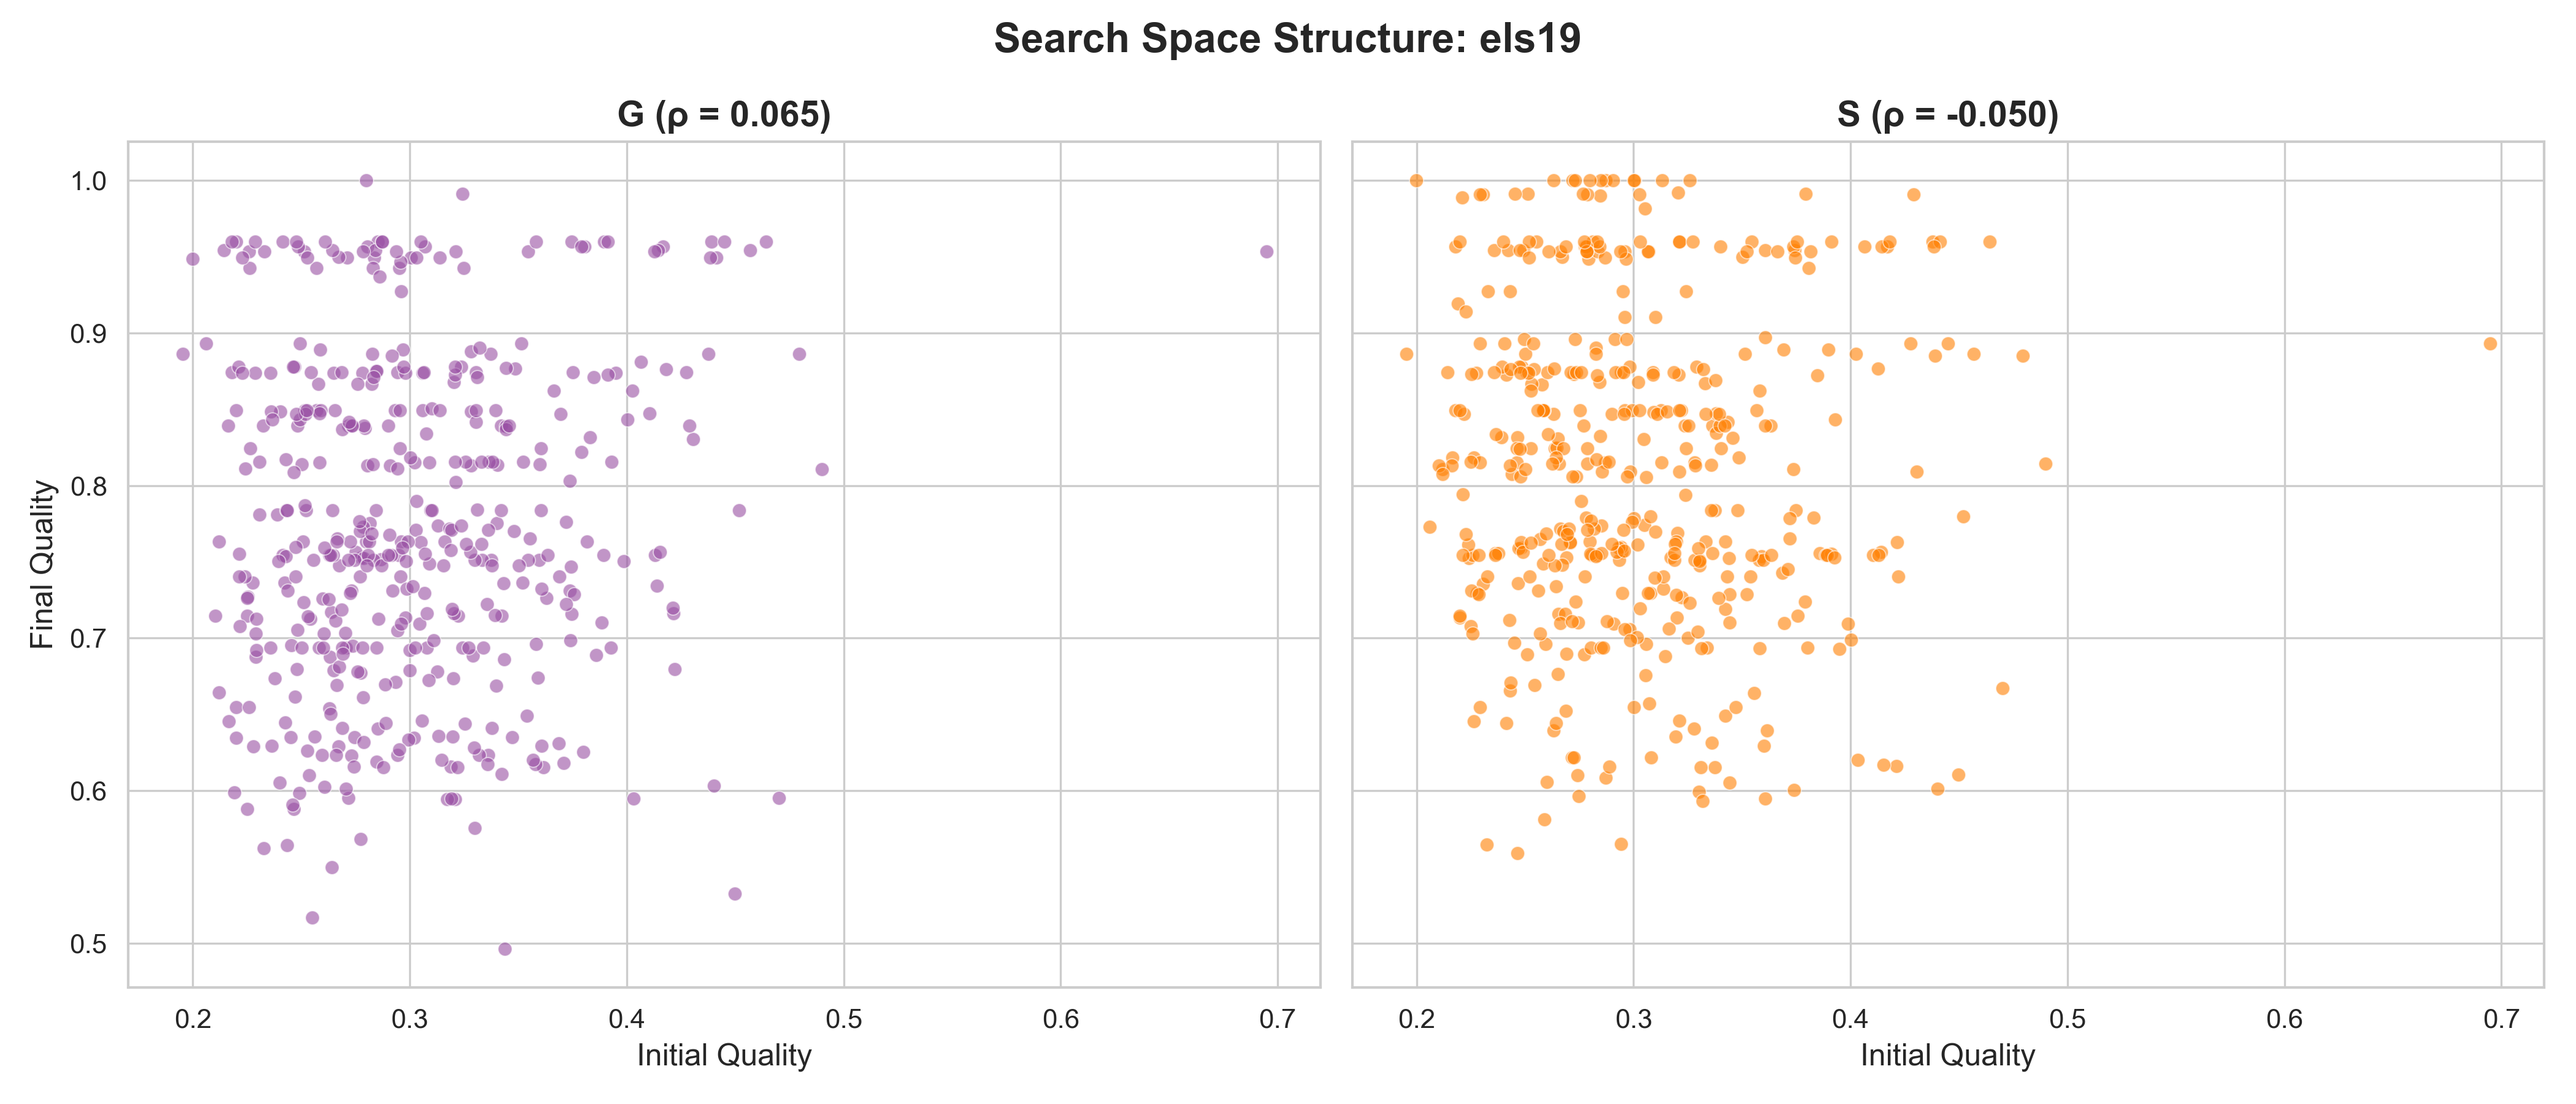
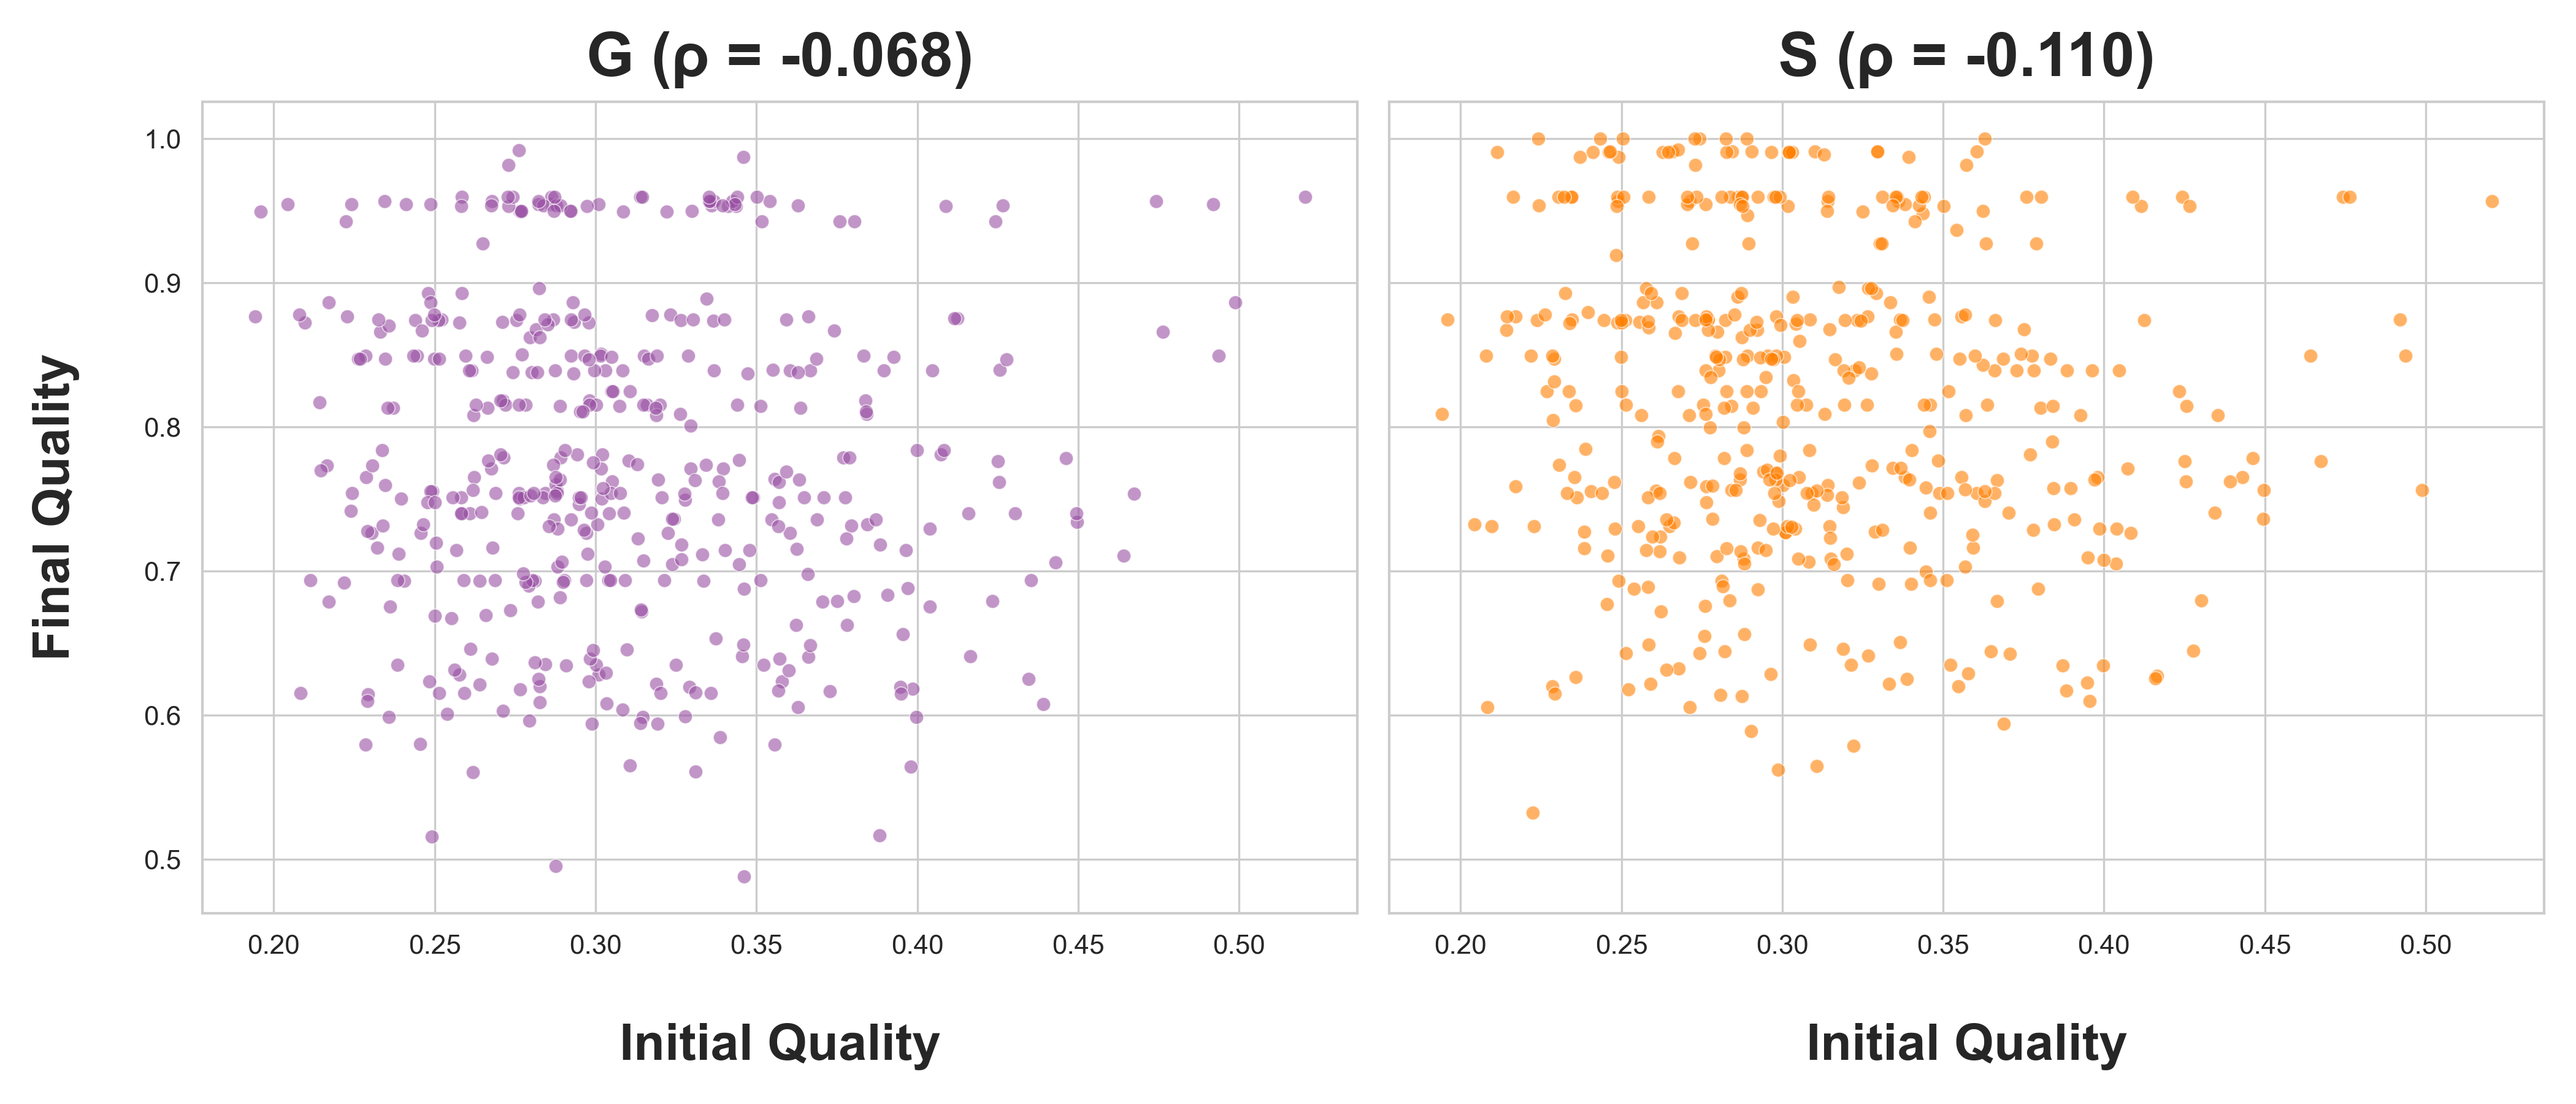
[PLOT]: scatter

diff --git a/LS/src/plot_scatter.py b/LS/src/plot_scatter.py
@@ -47,12 +47,11 @@ def main():
                 alpha=0.6      # Przezroczystość
             )
 
-            ax.set_title(f"{alg} (ρ = {rho:.3f})", fontweight='bold', fontsize=14)
-            ax.set_xlabel("Initial Quality", fontsize=12)
+            ax.set_title(f"{alg} (ρ = {rho:.3f})", fontsize=24, fontweight='bold', pad=10)
+            ax.set_xlabel("Initial Quality", fontsize=20, fontweight='bold', labelpad=25)
             if ax == axes[0]:
-                ax.set_ylabel("Final Quality", fontsize=12)
-
-        plt.suptitle(f"Search Space Structure: {instance}", fontsize=16, fontweight='bold')
+                ax.set_ylabel("Final Quality", fontsize=20, fontweight='bold', labelpad=25)
+        # plt.suptitle(f"Search Space Structure: {instance}", fontsize=16, fontweight='bold')
         plt.tight_layout()
         plt.savefig(f"../plots/plot_7_scatter_{instance}.png", dpi=300)
         plt.close()
